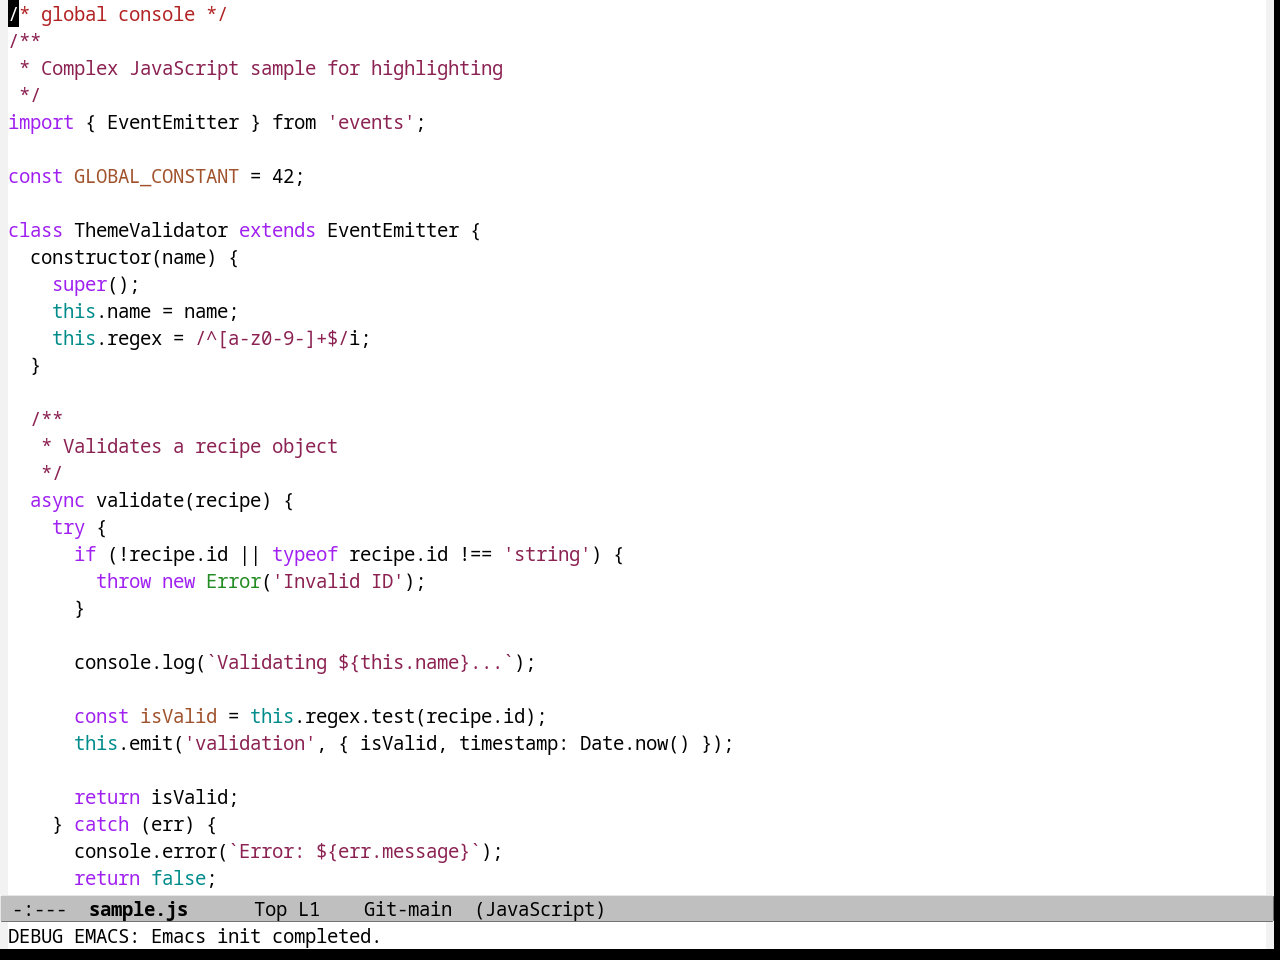
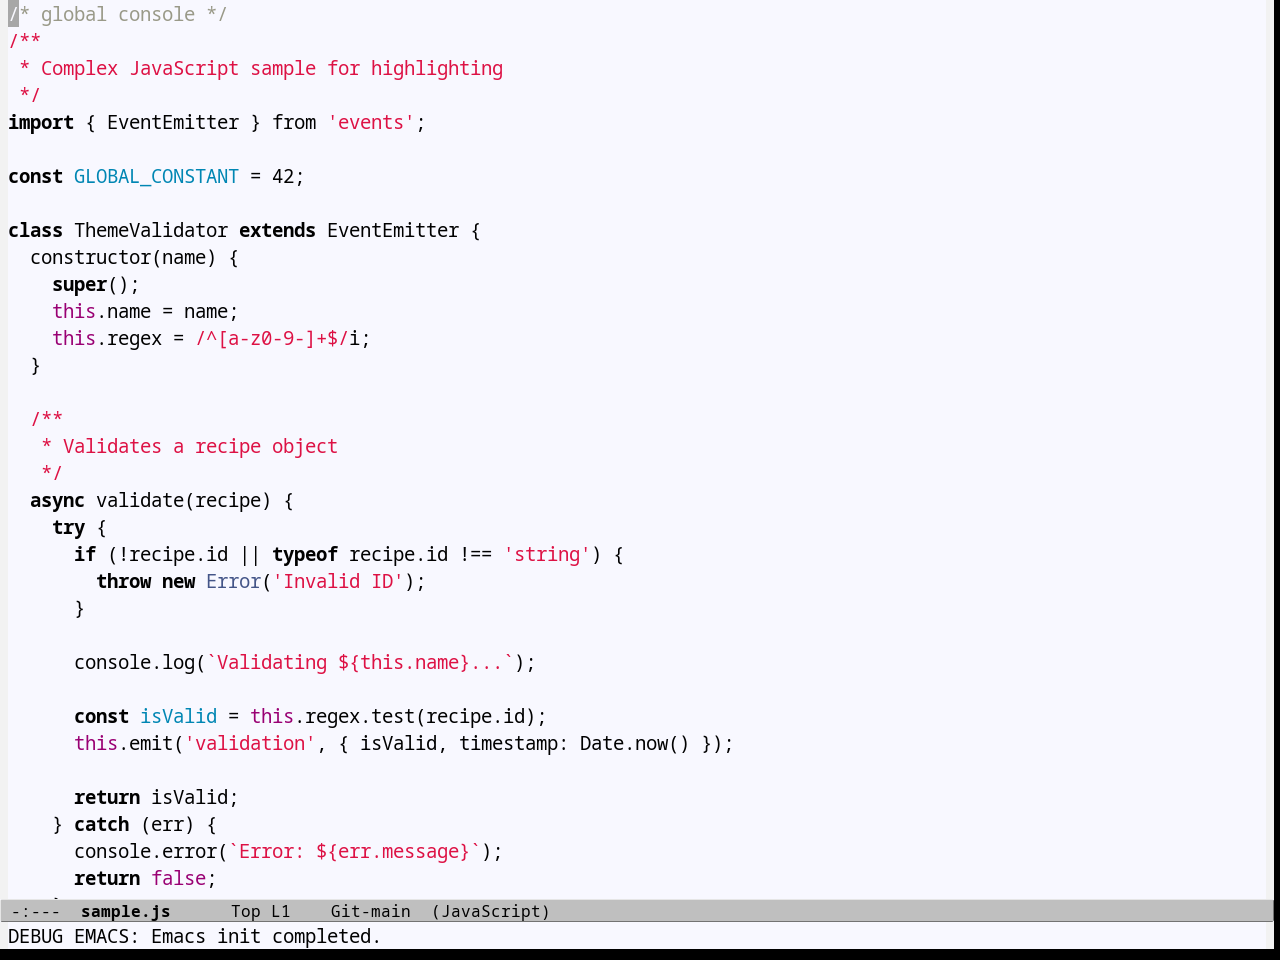
feat: add sanityinc-tomorrow theme variants and improve screenshot generation
- Add blue, day, eighties, and night variants of the sanityinc-tomorrow theme.
- Rename the original sanityinc-tomorrow theme to sanityinc-tomorrow-bright.
- Enhance 'generate-screenshots.ts' with robust theme name detection and automated preview generation.
- Regenerate all screenshots and previews for the sanityinc-tomorrow family.

diff --git a/src/core/generate-screenshots.ts b/src/core/generate-screenshots.ts
@@ -1,4 +1,4 @@
-import { mkdir, readdir, readFile, rm, copyFile } from "node:fs/promises";
+import { mkdir, readdir, readFile, rm, copyFile, rename } from "node:fs/promises";
 import { join, basename, resolve, relative } from "node:path";
 import { ThemeSchema, Theme } from "./schema-checker";
 import { RECIPES_DIR, MODE_SAMPLES, ModeConfig } from "./constants";
@@ -180,6 +180,66 @@ async function findThemeNameInDir(dir: string): Promise<string | null> {
 }
 
 /**
+ * Searches through a list of files to find the one that explicitly defines or provides
+ * a given Emacs theme name.
+ *
+ * @param {string} themeTempDir - The directory containing the files.
+ * @param {string[]} files - List of filenames to search through.
+ * @param {string} themeName - The internal Emacs symbol name for the theme.
+ * @returns {Promise<string | undefined>} The filename defining the theme, or undefined if not found.
+ */
+async function findFileDefiningTheme(themeTempDir: string, files: string[], themeName: string): Promise<string | undefined> {
+  for (const file of files) {
+    if (!file.endsWith(".el")) continue;
+    const content = await Bun.file(join(themeTempDir, file)).text();
+    const defthemeRegex = new RegExp(`\\(deftheme\\s+'?${themeName}\\b`);
+    const provideThemeRegex = new RegExp(`\\(provide-theme\\s+'?${themeName}\\b`);
+
+    if (defthemeRegex.test(content) || provideThemeRegex.test(content)) {
+      return file;
+    }
+  }
+  return undefined;
+}
+
+/**
+ * Ensures that there is a theme file named after the detected internal theme name.
+ *
+ * Emacs' `load-theme` expects the file to be named `[theme-name]-theme.el`.
+ * If we detected a theme name (e.g., from 'deftheme') but no such file exists,
+ * we rename a likely candidate file to match.
+ *
+ * @param {string} themeTempDir - The temporary directory containing the theme files.
+ * @param {string[]} filesToLoad - The current list of files to be loaded in Emacs.
+ * @param {string | null} detectedName - The detected internal theme name.
+ * @returns {Promise<void>}
+ */
+async function ensureThemeFileNaming(themeTempDir: string, filesToLoad: string[], detectedName: string | null): Promise<void> {
+  if (!detectedName) return;
+
+  const expectedFilename = `${detectedName}-theme.el`;
+  const hasExpectedFile = filesToLoad.includes(expectedFilename);
+
+  if (!hasExpectedFile) {
+    // Find the file that actually defines/provides the theme
+    let themeFile = await findFileDefiningTheme(themeTempDir, filesToLoad, detectedName);
+
+    // Fallback to previous heuristic if no file clearly provides the theme
+    if (!themeFile) {
+      themeFile = filesToLoad.find(f => f.endsWith(".el") && !f.endsWith("-theme.el")) || filesToLoad.find(f => f.endsWith(".el"));
+    }
+
+    if (themeFile) {
+      const oldPath = join(themeTempDir, themeFile);
+      const newPath = join(themeTempDir, expectedFilename);
+      console.log(`  Renaming ${themeFile} to ${expectedFilename} to match detected theme name "${detectedName}"`);
+      await rename(oldPath, newPath);
+      filesToLoad[filesToLoad.indexOf(themeFile)] = expectedFilename;
+    }
+  }
+}
+
+/**
  * Constructs the content for an Emacs initialization file (init.el) by merging
  * a base template with theme-specific configurations and mode-specific display logic.
  *
@@ -232,6 +292,7 @@ ${extraLogic}
   return template
     .replace(/{{THEME_DIR}}/g, resolve(themeDir))
     .replace(/{{LOAD_THEME_FILES}}/g, loadFilesElisp)
+    .replace(/{{THEME_FILES}}/g, filesToLoad.filter(f => f.endsWith(".el")).join(" "))
     .replace(/{{THEME_NAME}}/g, themeName)
     .replace(/{{EXTRA_ELISP}}/g, theme.elisp || "")
     .replace(/{{MODE_SPECIFIC_LOGIC}}/g, modeSpecificLogic);
@@ -366,6 +427,8 @@ async function processTheme(recipePath: string, force: boolean = false): Promise
     }
     const detectedName = await findThemeNameInDir(themeTempDir);
     const emacsThemeName = detectedName || theme.name.toLowerCase().replace(/\s+/g, '-');
+
+    await ensureThemeFileNaming(themeTempDir, filesToLoad, detectedName);
 
     for (const [modeName, config] of Object.entries(MODE_SAMPLES)) {
       console.log(`  Generating screenshot for ${modeName}...`);
